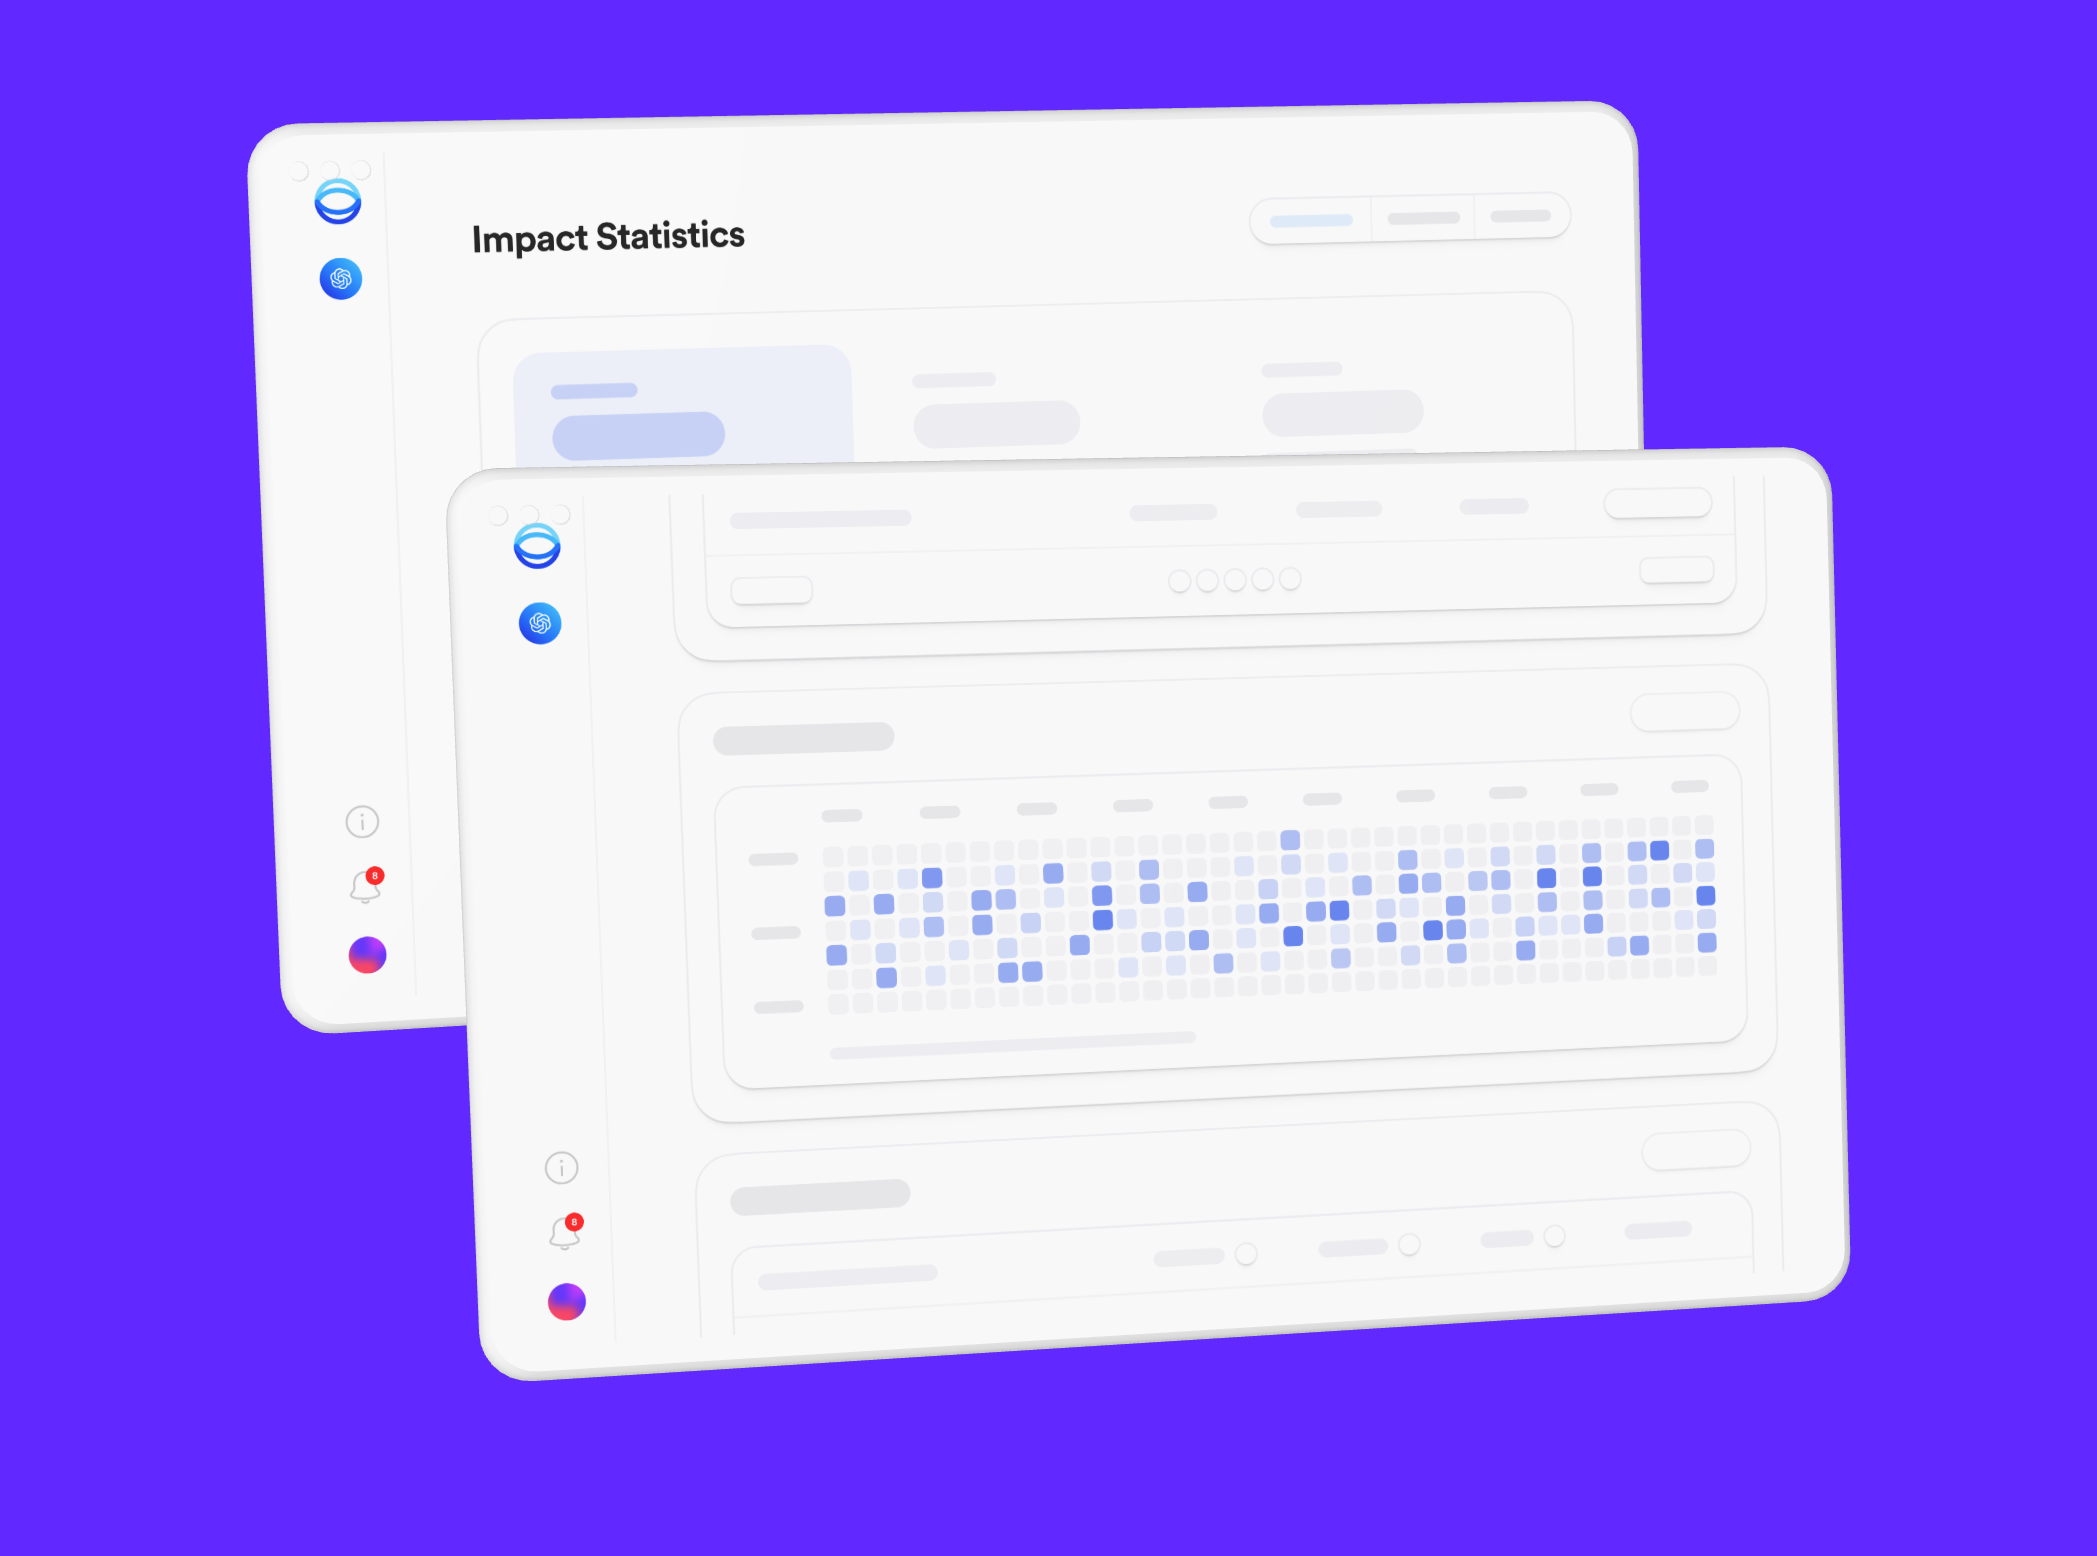
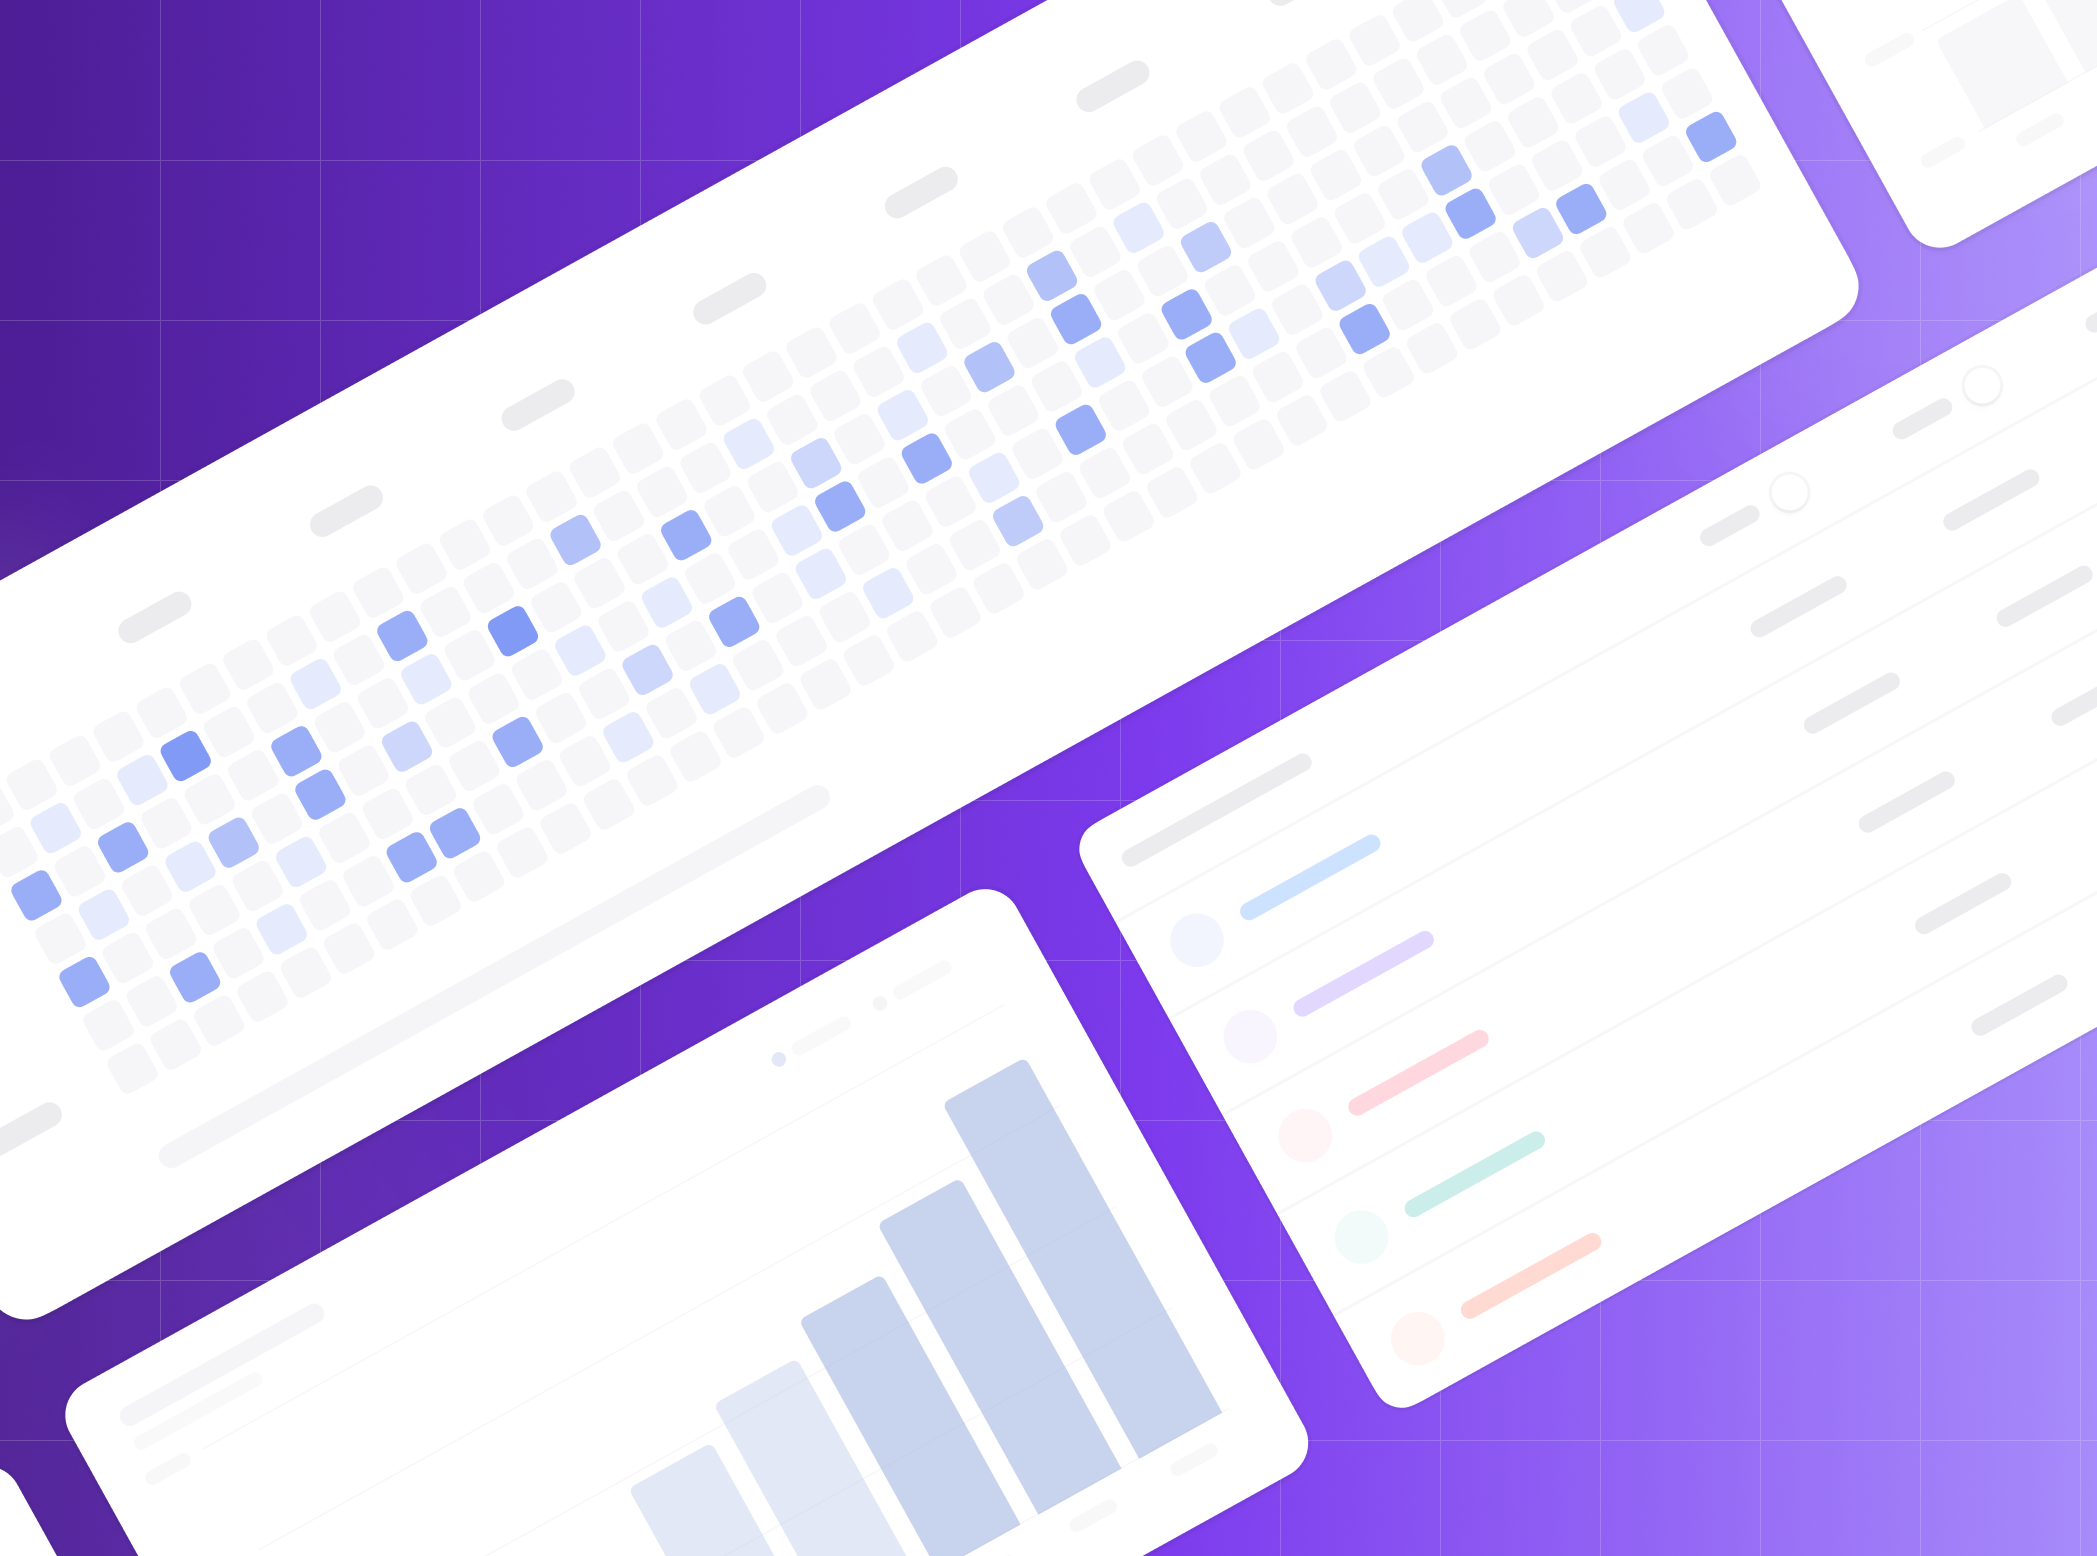
structure, placeholder copy, new cover image

diff --git a/src/pages/projects/B2BSaaSImpactStatistics.jsx b/src/pages/projects/B2BSaaSImpactStatistics.jsx
@@ -1,12 +1,205 @@
 import { ProjectLayout } from "../../components/ProjectLayout";
+import { Slide } from "../../components/Slide";
 import { PROJECTS } from "../../data/projects";
+import slideStyles from "../../components/Slide.module.css";
 
 const project = PROJECTS.find((p) => p.slug === "b2b-saas-impact-statistics");
 
 export function B2BSaaSImpactStatistics() {
   return (
     <ProjectLayout project={project}>
-      {/* Content coming soon */}
+      <Slide id="slide-problem">
+        <hgroup>
+          <p className={slideStyles.sectionHeader}>The Problem</p>
+          <h2 className={slideStyles.title}>Making value visible</h2>
+        </hgroup>
+        <p className={slideStyles.body}>
+          Larger clients were increasingly asking for a way to keep an eye on
+          how their team was using our performance advertising optimization app, where the tool was bringing the most
+          value across their portfolio, and which accounts might benefit from a
+          bit more attention. I was tasked with creating a dashboard that
+          presented this data in a clear and actionable way.
+        </p>
+        <br />
+        <p className={slideStyles.body}>
+          Beyond serving clients, the dashboard had a clear internal use case:
+          our customer success team needed a way to{" "}
+          <strong>demonstrate value</strong> during demos and convert prospects
+          into paying customers by showing them what the tool had already
+          done for them.
+        </p>
+      </Slide>
+
+      <Slide id="slide-defining">
+        <hgroup>
+          <p className={slideStyles.sectionHeader}>Defining the solution</p>
+          <h2 className={slideStyles.title}>Three goals, one dashboard</h2>
+        </hgroup>
+        <p className={slideStyles.body}>
+          The pitch was straightforward: give users a way to{" "}
+          <strong>monitor app usage</strong>, and give the business a way to{" "}
+          <strong>make its value clear</strong>. That broad goal broke down into
+          three concrete needs.
+        </p>
+        <br />
+        <div className={slideStyles.contentBody}>
+          <div className={slideStyles.contentGroup}>
+            <h3 className={slideStyles.contentHeading}>
+              See which actions are most valuable
+            </h3>
+            <p className={slideStyles.contentParagraph}>
+              Users need to be able to see what the most valuable actions they
+              take in the app are, so they can make informed decisions.
+            </p>
+          </div>
+          <div className={slideStyles.contentGroup}>
+            <h3 className={slideStyles.contentHeading}>
+              Spot opportunities across accounts
+            </h3>
+            <p className={slideStyles.contentParagraph}>
+              Users need to be able to monitor across their accounts to see where
+              there might be room for improvement.
+            </p>
+          </div>
+          <div className={slideStyles.contentGroup}>
+            <h3 className={slideStyles.contentHeading}>Monitor team activity</h3>
+            <p className={slideStyles.contentParagraph}>
+              Users need to be able to monitor team activity and quickly see who
+              is doing what.
+            </p>
+          </div>
+        </div>
+        <br />
+        <p className={slideStyles.body}>
+          Behind these goals sat a few clear buckets of data: team usage stats
+          (the improvements pushed, reports created, and other activity, broken
+          down per member), cost savings per account, cost savings per action,
+          and time savings per account and per action — the last one notoriously
+          harder to measure, yet frequently requested by team managers.
+        </p>
+      </Slide>
+
+      <Slide id="slide-valuable-actions">
+        <hgroup>
+          <p className={slideStyles.sectionHeader}>Valuable actions</p>
+          <h2 className={slideStyles.title}>The value at a glance</h2>
+        </hgroup>
+        <p className={slideStyles.body}>
+          The first need was helping users see the value of the app and identify
+          their highest-value actions, so they can make informed decisions.
+        </p>
+        <br />
+        <div className={slideStyles.contentBody}>
+          <div className={slideStyles.contentGroup}>
+            <h3 className={slideStyles.contentHeading}>
+              An overview as the cliff notes
+            </h3>
+            <p className={slideStyles.contentParagraph}>
+              I opened with an overview section that acted as the cliff notes:
+              the general idea at a glance. A headline figure set the scene, and
+              a breakdown by action type let users quickly understand the most
+              impactful actions they take in the app.
+            </p>
+          </div>
+          <div className={slideStyles.contentGroup}>
+            <h3 className={slideStyles.contentHeading}>Choosing the time periods</h3>
+            <p className={slideStyles.contentParagraph}>
+              Time period switchers were a lower priority than the rest, but they
+              still needed a decision. Based on user feedback and the ways the
+              data would actually be used, I settled on three options: a recent
+              window for day-to-day checks, a roughly quarterly range for
+              periodic reviews, and all time for the big picture.
+            </p>
+          </div>
+        </div>
+      </Slide>
+
+      <Slide id="slide-opportunities">
+        <hgroup>
+          <p className={slideStyles.sectionHeader}>Opportunities</p>
+          <h2 className={slideStyles.title}>Finding room for improvement</h2>
+        </hgroup>
+        <p className={slideStyles.body}>
+          The second need was helping users monitor across their accounts to spot
+          where there might be room for improvement.
+        </p>
+        <br />
+        <div className={slideStyles.contentBody}>
+          <div className={slideStyles.contentGroup}>
+            <h3 className={slideStyles.contentHeading}>
+              Sections for each kind of savings
+            </h3>
+            <p className={slideStyles.contentParagraph}>
+              I gave each kind of savings its own section — cost and time — so
+              users could dig into whichever metric mattered to them. Time
+              savings was the most-requested but hardest-to-measure; because it
+              is computed differently from cost savings, keeping it separate
+              avoided a figure that conflates money saved with hours saved.
+            </p>
+          </div>
+          <div className={slideStyles.contentGroup}>
+            <h3 className={slideStyles.contentHeading}>Broken down per account</h3>
+            <p className={slideStyles.contentParagraph}>
+              A per-account breakdown of costs saved let users see which accounts
+              were performing well and which could benefit from more attention.
+            </p>
+          </div>
+          <div className={slideStyles.contentGroup}>
+            <h3 className={slideStyles.contentHeading}>Broken down per action</h3>
+            <p className={slideStyles.contentParagraph}>
+              I also broke savings down per action across all accounts, so users
+              could see which actions were doing the heavy lifting across their
+              portfolio.
+            </p>
+          </div>
+          <div className={slideStyles.contentGroup}>
+            <h3 className={slideStyles.contentHeading}>
+              A deep dive into specific examples
+            </h3>
+            <p className={slideStyles.contentParagraph}>
+              A deep dive view let users see the specific examples behind the
+              numbers — the actual improvements and reports that added up to each
+              figure — so the statistics felt concrete rather than abstract.
+            </p>
+          </div>
+        </div>
+      </Slide>
+
+      <Slide id="slide-team">
+        <hgroup>
+          <p className={slideStyles.sectionHeader}>Team activity</p>
+          <h2 className={slideStyles.title}>A heatmap and a table</h2>
+        </hgroup>
+        <p className={slideStyles.body}>
+          The third goal — monitoring team activity — needed both a quick
+          at-a-glance view and something more structured. Rather than forcing
+          both into a single component, I kept them separate.
+        </p>
+        <br />
+        <div className={slideStyles.contentBody}>
+          <div className={slideStyles.contentGroup}>
+            <h3 className={slideStyles.contentHeading}>
+              A heatmap for the quick scan
+            </h3>
+            <p className={slideStyles.contentParagraph}>
+              A heatmap gives managers a fast sense of activity patterns, with a
+              switcher to toggle between the whole team and individual members.
+              This answers the "who is doing what" question without requiring
+              them to read a table.
+            </p>
+          </div>
+          <div className={slideStyles.contentGroup}>
+            <h3 className={slideStyles.contentHeading}>A table for the full team</h3>
+            <p className={slideStyles.contentParagraph}>
+              A table below lists the whole team and each member&apos;s activity.
+              For now it is display-only, but it is a deliberate first step:
+              keeping team features in their own space means future actions —
+              assigning, reviewing, or comparing members — have a clear place to
+              grow into, rather than being retrofitted into the heatmap.
+            </p>
+          </div>
+        </div>
+      </Slide>
     </ProjectLayout>
   );
 }

diff --git a/src/data/projects.js b/src/data/projects.js
@@ -45,7 +45,7 @@ const RAW_PROJECTS = [
     slug: "b2b-saas-impact-statistics",
     title: "B2B SaaS Impact Statistics",
     year: "2024",
-    status: "draft",
+    status: "published",
     nda: false,
     blurb:
       "A suite of data visualisation tools to help team leaders monitor team contributions and optimize tool usage for increased ROI.",
